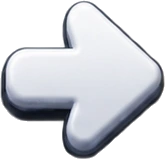
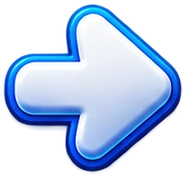
Neue Quiz-Symbole von Dejan (50:50, Zurück, Weiter, Markieren, Beenden, Vorlesen, Erklärung, Frage)
Claude-Session: https://claude.ai/code/session_018Kz5WYchXh7NXAh8mR9Sh2

diff --git a/index.html b/index.html
@@ -74,7 +74,7 @@ html.ep-boot #epBoot{display:flex;position:fixed;inset:0;z-index:99999;flex-dire
 <link rel="preload" as="image" href="img/kinder.webp">
 <script>/* Versionsprüfung: Ist diese Seite älter als die veröffentlichte Version (alter Speicher, Browser-Cache,
    Homescreen-App), alles Alte löschen und einmal frisch laden. Höchstens einmal pro 10 Minuten. */
-window.EP_BUILD="ep-2026-10-30-17";
+window.EP_BUILD="ep-2026-10-30-18";
 (function(){ try{
   if(window.claude || window.EP_NATIV || !/^https?:$/.test(location.protocol)){ window.__epVer="ok"; return; }   /* App (alles eingebaut) und Vorschau: keine Prüfung */
   /* Prüft, ob auf dem Server eine neuere Version liegt. Läuft beim Laden UND jedes Mal, wenn die Seite

diff --git a/sw.js b/sw.js
@@ -2,7 +2,7 @@
    Sorgt für schnelle Wiederholungsbesuche und Offline-Nutzung.
    Bei jeder Änderung an der App-Hülle VERSION hochzählen, damit alte Caches gelöscht werden. */
 
-const VERSION = "ep-2026-10-30-17";
+const VERSION = "ep-2026-10-30-18";
 const CACHE_HUELLE = VERSION + "-huelle";   // App-Hülle, Code, Daten
 // Bilder in einem festen Speicher: überlebt Updates (nur bilder/, img/, flags/), wird täglich still geprüft
 const CACHE_BILDER = "ep-bilder";

diff --git a/CLAUDE.md b/CLAUDE.md
@@ -33,6 +33,7 @@ Diese Datei ist der gemeinsame Kanal. Jede Sitzung liest sie vor der Arbeit und 
 
 ## Erledigt (neueste oben)
 
+- 30.10. Sitzung «Qeels-App»: Quiz-Symbole `img/grafik/sym-{5050,beenden,erklaerung,frage,markieren,vorlesen,weiter,zurueck}.webp` durch Dejans neue Bilder ersetzt (gleiche Namen). Seine Knöpfe mit eingebautem Symbol liegen in `img/grafik/neu/knopf-*-symbol.webp`, noch nicht verwendet (die bisherigen `knopf-*.webp` sind leere Neun-Teile-Hintergründe mit Text). Version ep-2026-10-30-18.
 - 30.10. Sitzung «App»: App neu gebaut mit Stand ep-2026-10-30-17 (Qeels-Icons, gezeichnete Themen-Symbole, neue Köpfe Bereich und Training/Test, neue Quiz-Knöpfe, Hintergründe). iOS Build 28 in TestFlight, Android `easyplay-android-12`. Fragen-Dateien im Stand, in dem die Sitzung «Fragen-Rework» sie gerade hat.
 - 30.10. Sitzung «Hauptseite»: Hintergründe Sommerwiese und Weltall ersetzt durch Farbbänder (wogende Farbstreifen) und Formen-Muster (`img/hg/formen.svg`, wandert langsam), Unterwasser bleibt. `HINTERGRUENDE` in `index.html`, Block «Drei weitere Hintergründe» in `stil.js`. Version ep-2026-10-30-17.
 - 30.10. Sitzung «Hauptseite»: Drei neue Hintergründe in Menü › Hintergrund: Unterwasser (Blasen steigen, Lichtstreifen), Sommerwiese (Sonne, ziehende Wolken), Weltall (funkelnde Sterne). `HINTERGRUENDE` in `index.html`, Szenen `img/hg/*.svg`, Ebene `#bgneu` und CSS im Block «Drei weitere Hintergründe» am Ende von `stil.js` (aus bei «Bewegung reduzieren»). Version ep-2026-10-30-16.
